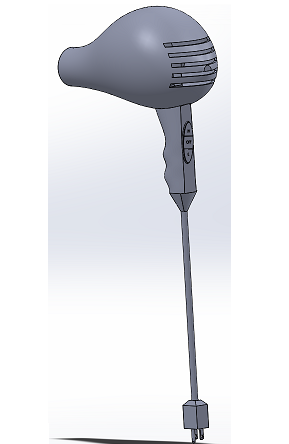
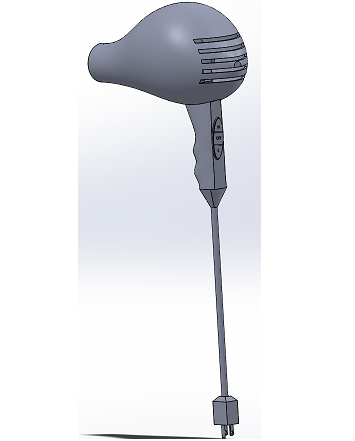
picture resizing (3)

diff --git a/index.html b/index.html
@@ -117,9 +117,9 @@
 										</div>
 									</div>
 									<div class="row">
-										<div class="4u">
-											<a href="#" class="image fit"><img src="images/Solidworks - Hair Dryer Entire (4).png" alt=""></a>
-										</div>
+										
+											<img src="images/Solidworks - Hair Dryer Entire (4).png" alt="">
+										
 									</div>
 									<br><br>
 									<h3>Hair Dryer Parts</h3>
@@ -142,7 +142,7 @@
 											<a href="#" class="image fit"><img src="images/Solidworks - Power Cord (2).png" alt=""></a>
 										</div>
 										<div class="4u">
-											<a href="#" class="image fit"><img src="images/Solidworks - Buttons.png" alt="" width="50%"></a>
+											<a href="#" class="image fit"><img src="images/Solidworks - Buttons.png" alt=""></a>
 										</div>
 									</div>
 									<div class "row">
